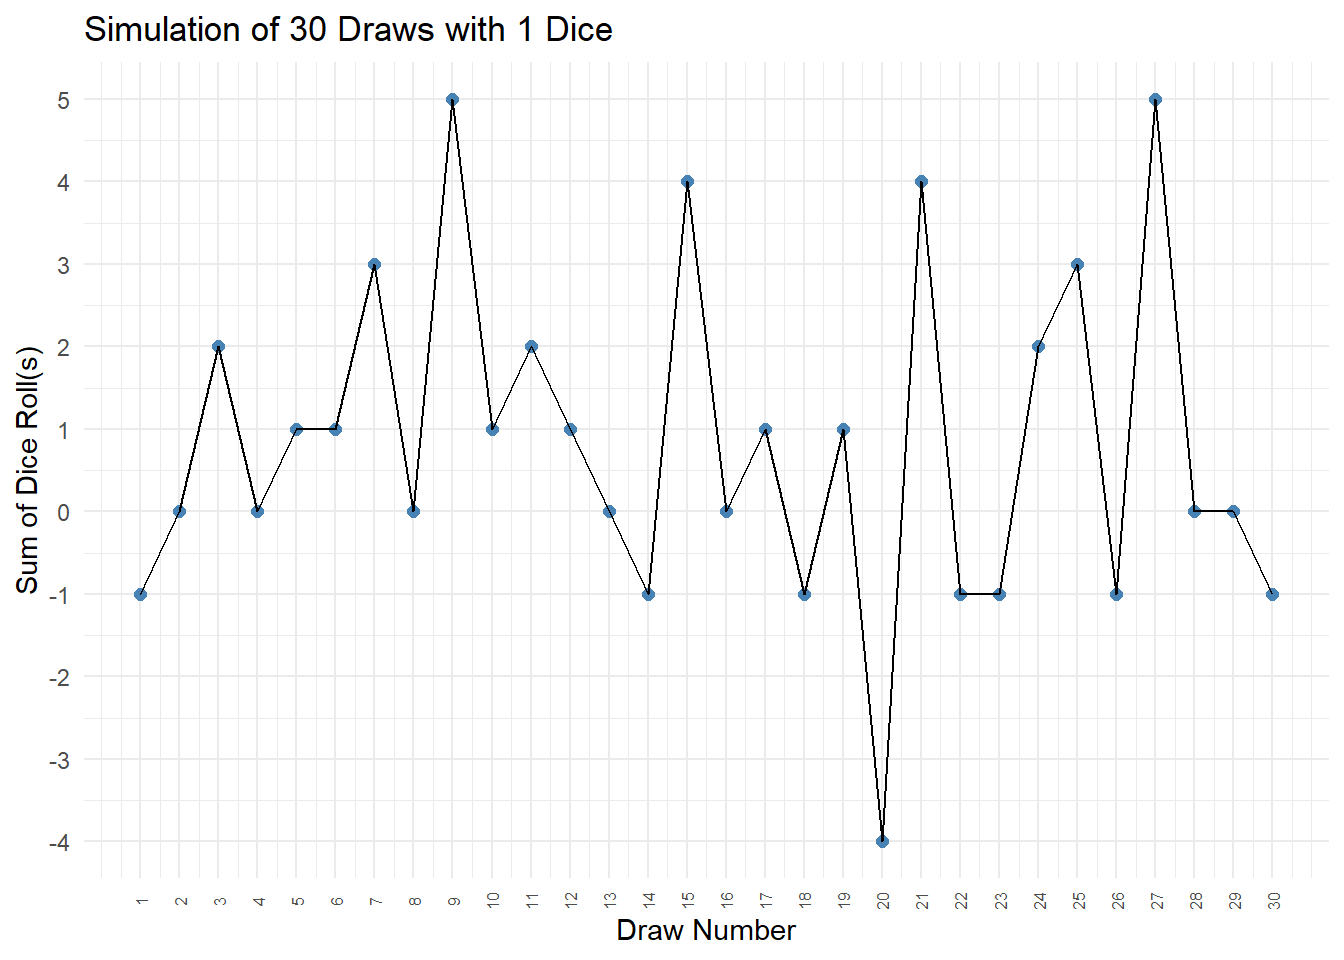
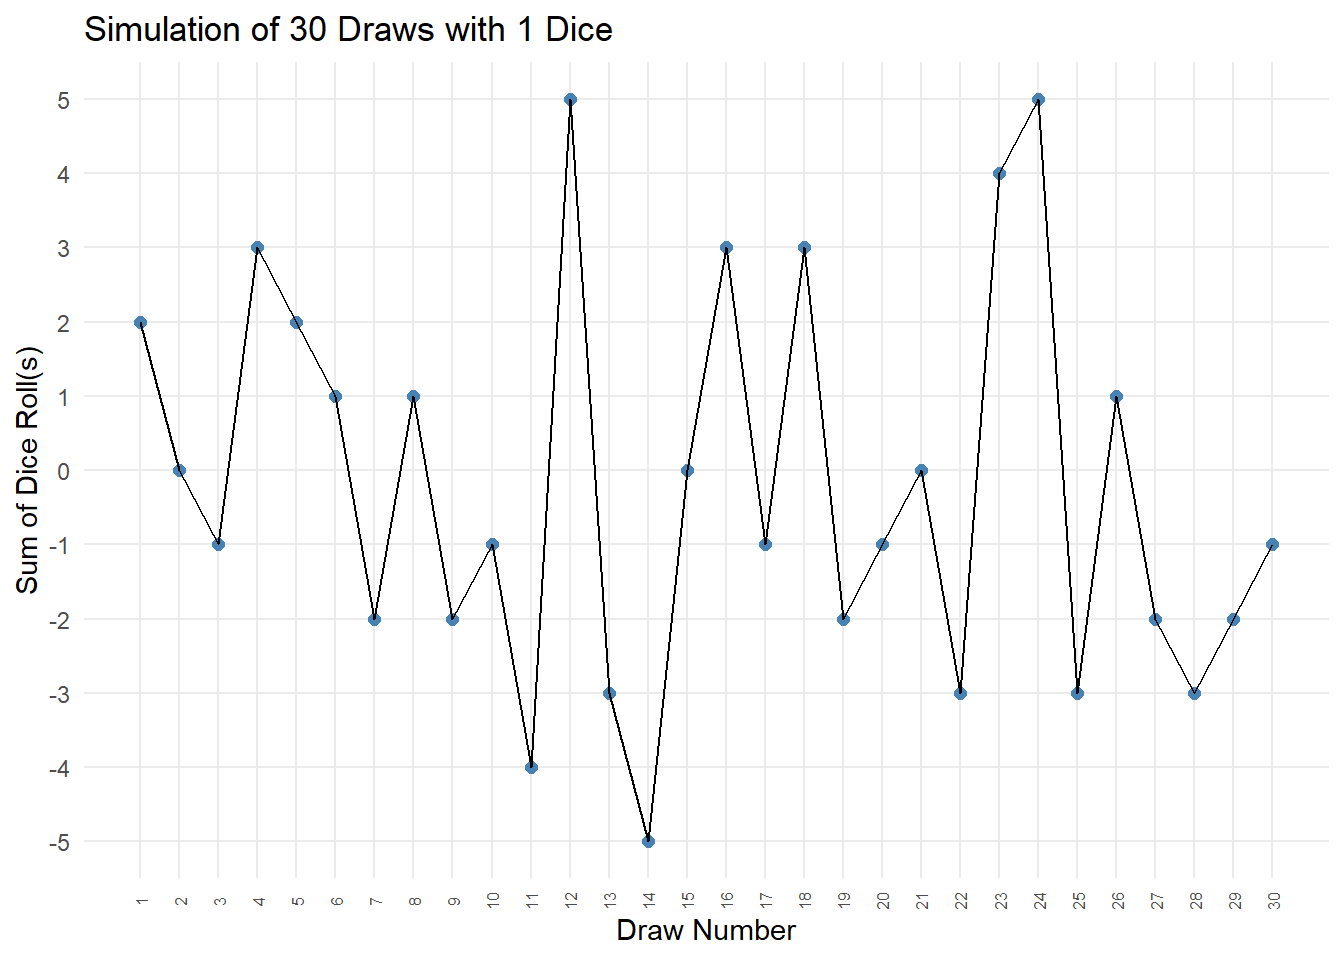
4-1 tweaks

diff --git a/docs/chapter_4_lesson_1.html b/docs/chapter_4_lesson_1.html
@@ -776,20 +776,23 @@ Simulate realizations from basic time series models in R
 <details class="code-fold">
 <summary>Show the code</summary>
 <div class="code-copy-outer-scaffold"><div class="sourceCode cell-code" id="cb2"><pre class="sourceCode r code-with-copy"><code class="sourceCode r"><span id="cb2-1"><a href="#cb2-1" aria-hidden="true" tabindex="-1"></a>results <span class="ot">&lt;-</span> <span class="fu">replicate</span>(<span class="dv">30</span>, <span class="fu">sum</span>(<span class="fu">sample</span>(<span class="dv">1</span><span class="sc">:</span><span class="dv">6</span>, <span class="dv">2</span>, <span class="at">replace =</span> <span class="cn">TRUE</span>))) <span class="sc">-</span> <span class="dv">7</span></span>
-<span id="cb2-2"><a href="#cb2-2" aria-hidden="true" tabindex="-1"></a>  df <span class="ot">&lt;-</span> <span class="fu">data.frame</span>(<span class="at">Draw =</span> <span class="dv">1</span><span class="sc">:</span><span class="dv">30</span>, <span class="at">Value =</span> results)</span>
-<span id="cb2-3"><a href="#cb2-3" aria-hidden="true" tabindex="-1"></a>  </span>
+<span id="cb2-2"><a href="#cb2-2" aria-hidden="true" tabindex="-1"></a>df <span class="ot">&lt;-</span> <span class="fu">data.frame</span>(<span class="at">Draw =</span> <span class="dv">1</span><span class="sc">:</span><span class="dv">30</span>, <span class="at">Value =</span> results)</span>
+<span id="cb2-3"><a href="#cb2-3" aria-hidden="true" tabindex="-1"></a></span>
 <span id="cb2-4"><a href="#cb2-4" aria-hidden="true" tabindex="-1"></a><span class="fu">ggplot</span>(df, <span class="fu">aes</span>(<span class="at">x =</span> Draw, <span class="at">y =</span> Value)) <span class="sc">+</span></span>
-<span id="cb2-5"><a href="#cb2-5" aria-hidden="true" tabindex="-1"></a>    <span class="fu">geom_point</span>(<span class="at">color =</span> <span class="st">"steelblue"</span>, <span class="at">size =</span> <span class="dv">2</span>) <span class="sc">+</span></span>
-<span id="cb2-6"><a href="#cb2-6" aria-hidden="true" tabindex="-1"></a>    <span class="fu">geom_line</span>() <span class="sc">+</span></span>
-<span id="cb2-7"><a href="#cb2-7" aria-hidden="true" tabindex="-1"></a>    <span class="fu">scale_x_continuous</span>(<span class="at">breaks =</span> <span class="dv">1</span><span class="sc">:</span><span class="dv">30</span>) <span class="sc">+</span></span>
-<span id="cb2-8"><a href="#cb2-8" aria-hidden="true" tabindex="-1"></a>    <span class="fu">scale_y_continuous</span>(<span class="at">breaks =</span> <span class="fu">seq</span>(<span class="sc">-</span><span class="dv">5</span>, <span class="dv">5</span>, <span class="dv">1</span>)) <span class="sc">+</span></span>
-<span id="cb2-9"><a href="#cb2-9" aria-hidden="true" tabindex="-1"></a>    <span class="fu">labs</span>(</span>
-<span id="cb2-10"><a href="#cb2-10" aria-hidden="true" tabindex="-1"></a>      <span class="at">title =</span> <span class="fu">paste</span>(<span class="st">"Simulation of"</span>, <span class="dv">30</span>, <span class="st">"Draws with"</span>, <span class="dv">1</span>, <span class="st">"Dice"</span>),</span>
-<span id="cb2-11"><a href="#cb2-11" aria-hidden="true" tabindex="-1"></a>      <span class="at">x =</span> <span class="st">"Draw Number"</span>,</span>
-<span id="cb2-12"><a href="#cb2-12" aria-hidden="true" tabindex="-1"></a>      <span class="at">y =</span> <span class="st">"Sum of Dice Roll(s)"</span></span>
-<span id="cb2-13"><a href="#cb2-13" aria-hidden="true" tabindex="-1"></a>    ) <span class="sc">+</span></span>
-<span id="cb2-14"><a href="#cb2-14" aria-hidden="true" tabindex="-1"></a>    <span class="fu">theme_minimal</span>() <span class="sc">+</span></span>
-<span id="cb2-15"><a href="#cb2-15" aria-hidden="true" tabindex="-1"></a>    <span class="fu">theme</span>(<span class="at">axis.text.x =</span> <span class="fu">element_text</span>(<span class="at">angle =</span> <span class="dv">90</span>, <span class="at">vjust =</span> <span class="fl">0.5</span>, <span class="at">size =</span> <span class="dv">6</span>))</span></code></pre></div><button title="Copy to Clipboard" class="code-copy-button"><i class="bi"></i></button></div>
+<span id="cb2-5"><a href="#cb2-5" aria-hidden="true" tabindex="-1"></a>  <span class="fu">geom_point</span>(<span class="at">color =</span> <span class="st">"steelblue"</span>, <span class="at">size =</span> <span class="dv">2</span>) <span class="sc">+</span></span>
+<span id="cb2-6"><a href="#cb2-6" aria-hidden="true" tabindex="-1"></a>  <span class="fu">geom_line</span>() <span class="sc">+</span></span>
+<span id="cb2-7"><a href="#cb2-7" aria-hidden="true" tabindex="-1"></a>  <span class="fu">scale_x_continuous</span>(<span class="at">breaks =</span> <span class="dv">1</span><span class="sc">:</span><span class="dv">30</span>) <span class="sc">+</span></span>
+<span id="cb2-8"><a href="#cb2-8" aria-hidden="true" tabindex="-1"></a>  <span class="fu">scale_y_continuous</span>(<span class="at">breaks =</span> <span class="fu">seq</span>(<span class="sc">-</span><span class="dv">5</span>, <span class="dv">5</span>, <span class="dv">1</span>)) <span class="sc">+</span></span>
+<span id="cb2-9"><a href="#cb2-9" aria-hidden="true" tabindex="-1"></a>  <span class="fu">labs</span>(</span>
+<span id="cb2-10"><a href="#cb2-10" aria-hidden="true" tabindex="-1"></a>    <span class="at">title =</span> <span class="fu">paste</span>(<span class="st">"Simulation of"</span>, <span class="dv">30</span>, <span class="st">"Draws with"</span>, <span class="dv">1</span>, <span class="st">"Dice"</span>),</span>
+<span id="cb2-11"><a href="#cb2-11" aria-hidden="true" tabindex="-1"></a>    <span class="at">x =</span> <span class="st">"Draw Number"</span>,</span>
+<span id="cb2-12"><a href="#cb2-12" aria-hidden="true" tabindex="-1"></a>    <span class="at">y =</span> <span class="st">"Sum of Dice Roll(s)"</span></span>
+<span id="cb2-13"><a href="#cb2-13" aria-hidden="true" tabindex="-1"></a>  ) <span class="sc">+</span></span>
+<span id="cb2-14"><a href="#cb2-14" aria-hidden="true" tabindex="-1"></a>  <span class="fu">theme_minimal</span>() <span class="sc">+</span></span>
+<span id="cb2-15"><a href="#cb2-15" aria-hidden="true" tabindex="-1"></a>  <span class="fu">theme</span>(</span>
+<span id="cb2-16"><a href="#cb2-16" aria-hidden="true" tabindex="-1"></a>    <span class="at">axis.text.x =</span> <span class="fu">element_text</span>(<span class="at">angle =</span> <span class="dv">90</span>, <span class="at">vjust =</span> <span class="fl">0.5</span>, <span class="at">size =</span> <span class="dv">6</span>),</span>
+<span id="cb2-17"><a href="#cb2-17" aria-hidden="true" tabindex="-1"></a>    <span class="at">panel.grid.minor =</span> <span class="fu">element_blank</span>()</span>
+<span id="cb2-18"><a href="#cb2-18" aria-hidden="true" tabindex="-1"></a>  )</span></code></pre></div><button title="Copy to Clipboard" class="code-copy-button"><i class="bi"></i></button></div>
 </details>
 <div class="cell-output-display">
 <div>
@@ -1063,6 +1066,7 @@ Simulate realizations from basic time series models in R
 </div>
 <div class="callout-body-container callout-body">
 <p>Let <span class="math inline">\(\{x_t\}\)</span> be a time series. Then, <span class="math inline">\(\{x_t\}\)</span> is a <strong>random walk</strong> if it can be expressed as <span class="math display">\[
+x_t = x_{t-1} + w_t
 \]</span> where <span class="math inline">\(\{w_t\}\)</span> is a random process.</p>
 </div>
 </div>
@@ -1106,6 +1110,7 @@ Simulate realizations from basic time series models in R
 <ul>
 <li>How would you describe a random walk to someone who has not taken this class?</li>
 <li>How is a random walk related to a discrete white noise (DWN) process?</li>
+<li>Is the name `<code>random walk'' appropriate for a process like this?</code></li>
 <li>Give a real-world example of a process that could be modeled by a random walk.</li>
 </ul>
 </div>
